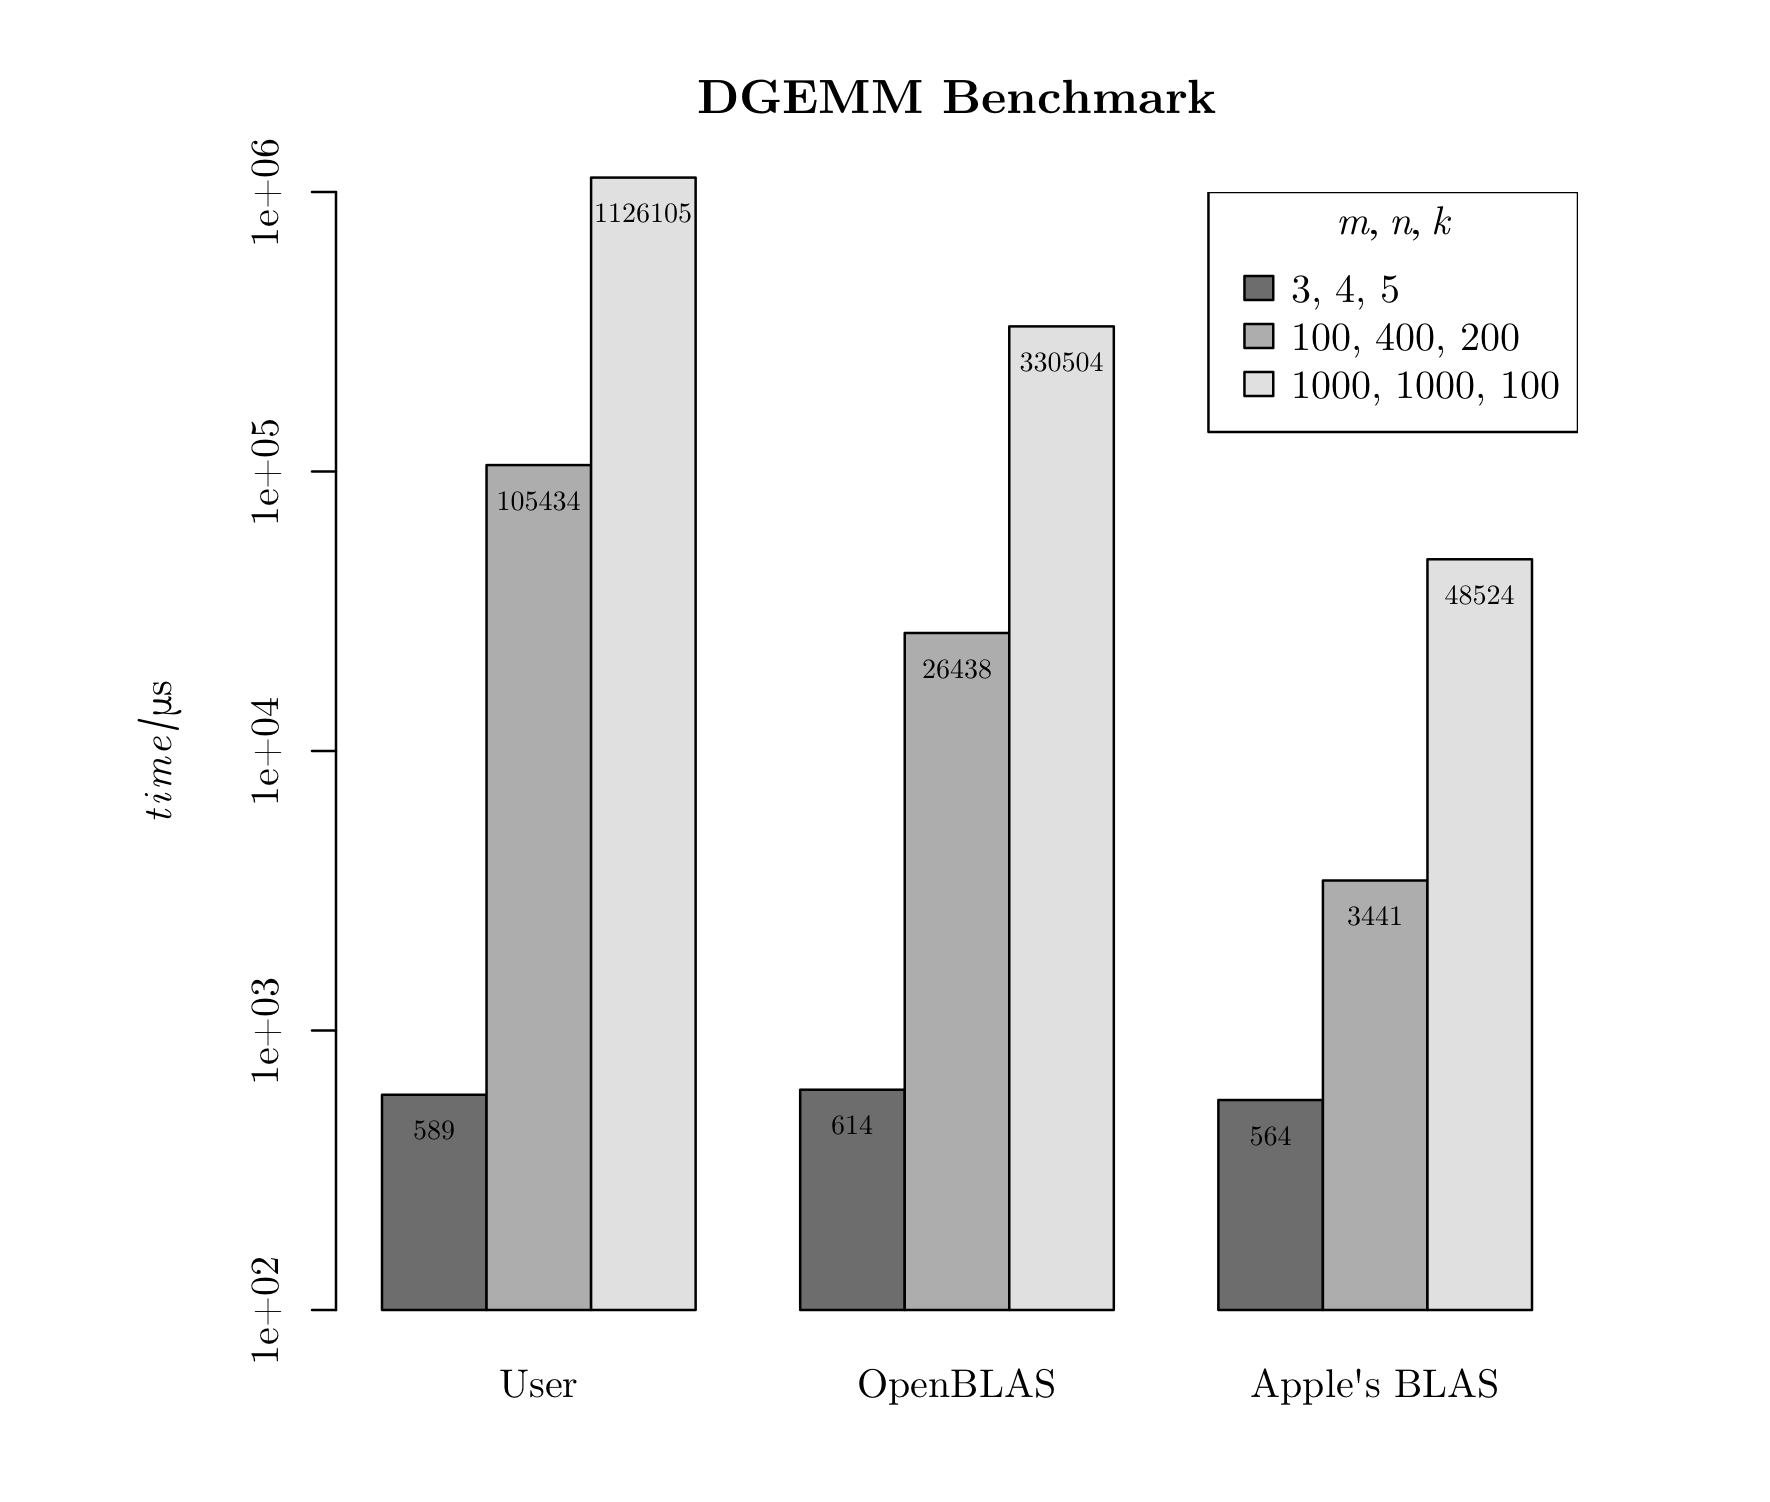
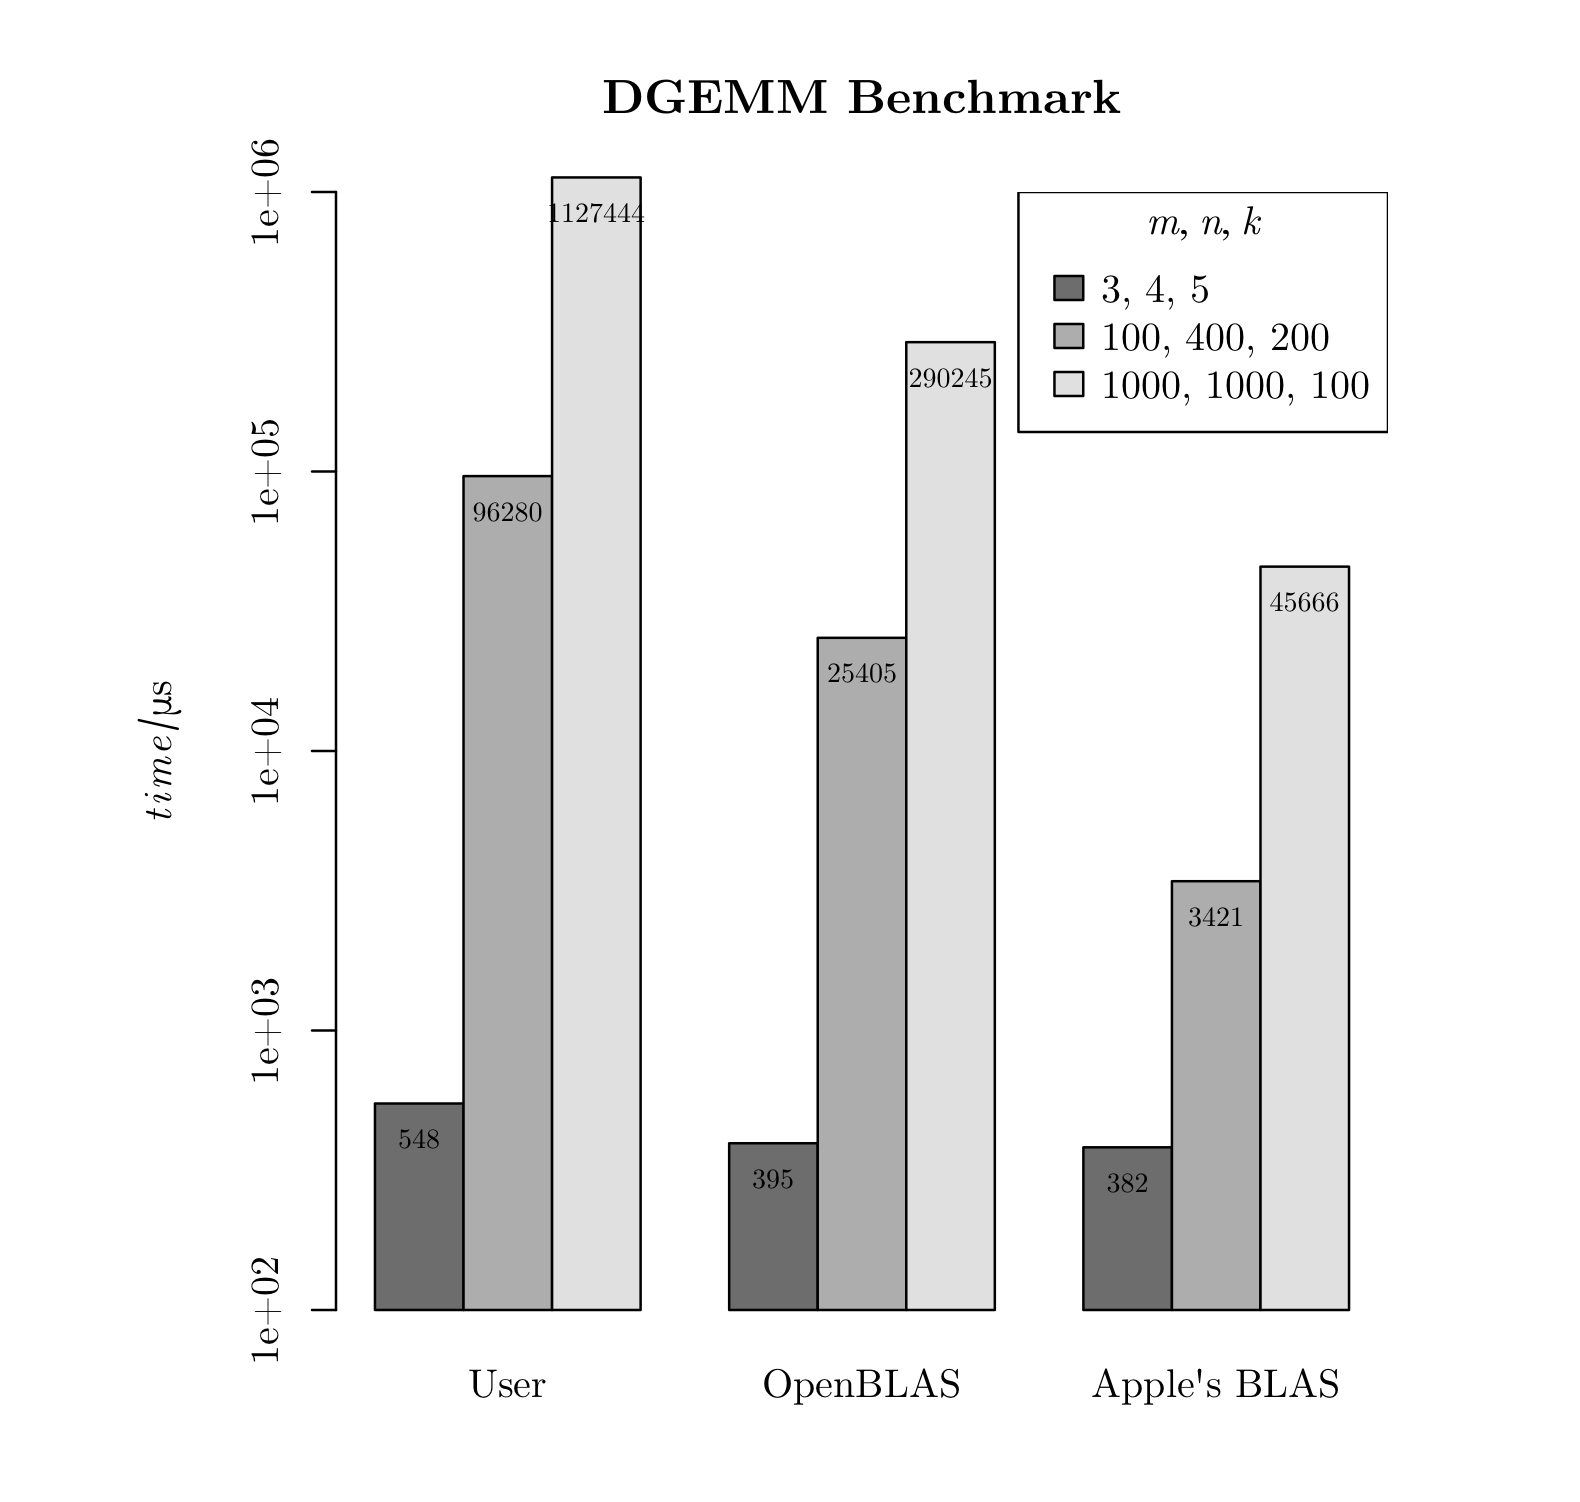
lab_4

diff --git a/lab_4/multi-gemm/src/main.c b/lab_4/multi-gemm/src/main.c
@@ -9,8 +9,8 @@
 #endif
 
 #define WARM_UP 11
-#define N 45
-#define MAX_TRDS 128
+#define N 30
+#define CHUNK_SIZE 9000
 
 struct timeval;
 struct timezone;
@@ -47,20 +47,29 @@ void dgemm(Matrix *m1, Matrix *m2, Matrix *m3)
 
 typedef struct
 {
-    double *mat1, *mat2;
-    int ii, jj, kk, m2;
-    double *ret;
-} dgemm_dot_prod_args;
+    int s, e;
+} dgemm_partial_args;
 
-void dgemm_dot_prod(dgemm_dot_prod_args *args)
+Matrix *g_m1, *g_m2, *g_m3;
+
+void dgemm_partial(dgemm_partial_args *args)
 {
 #ifdef DBG
-    printf("\n[ARGS] ii: %d, jj: %d, kk: %d, m2: %d\n", args->ii, args->jj, args->kk, args->m2);
+    printf("\n[ARGS] s: %d, e: %d\n", args->s, args->e);
 #endif
 
-    for (int k = 0; k < args->kk; ++k)
+    int cur = args->s, k = g_m1->col, cc = g_m3->col;
+
+    while (cur < args->e)
     {
-        *(args->ret) += args->mat1[args->ii * args->kk + k] * args->mat2[k * args->m2 + args->jj];
+        int r = cur / g_m3->col, c = cur % g_m3->col;
+        int cur1 = r * k, cur2 = c;
+        for (int kk = 0; kk < k; ++kk)
+        {
+            g_m3->val[cur] += g_m1->val[cur1] * g_m2->val[cur2];
+            ++cur1, cur2 += cc;
+        }
+        ++cur;
     }
 
     free(args);
@@ -68,31 +77,26 @@ void dgemm_dot_prod(dgemm_dot_prod_args *args)
 
 void dgemm_multi(Matrix *m1, Matrix *m2, Matrix *m3)
 {
-    int m = m1->row, n = m2->col, k = m1->col, cnt = 0;
+    g_m1 = m1, g_m2 = m2, g_m3 = m3;
+    int size3 = m3->row * m3->col;
 
-    pthread_t thrds[m * n];
+    int thrd_size = size3 / CHUNK_SIZE + (size3 % CHUNK_SIZE ? 1 : 0);
+    pthread_t thrds[thrd_size];
 
-    for (int i = 0; i < m; ++i)
+    for (int i = 0, cnt = 0; i < size3; i += CHUNK_SIZE, ++cnt)
     {
-        for (int j = 0; j < n; ++j)
+        int j = i + CHUNK_SIZE;
+        if (j > size3)
         {
-            dgemm_dot_prod_args *args = (dgemm_dot_prod_args *)malloc(sizeof(dgemm_dot_prod_args));
-            *args = (dgemm_dot_prod_args){m1->val, m2->val, i, j, k, n, &(m3->val[i * n + j])};
-            pthread_create(&thrds[cnt], NULL, (void *)dgemm_dot_prod, args);
-
-            ++cnt;
-            if (cnt >= MAX_TRDS)
-            {
-                for (int i = 0; i < cnt; ++i)
-                {
-                    pthread_join(thrds[i], NULL);
-                }
-                cnt = 0;
-            }
+            j = size3;
         }
+
+        dgemm_partial_args *args = (dgemm_partial_args *)malloc(sizeof(dgemm_partial_args));
+        *args = (dgemm_partial_args){i, j};
+        pthread_create(&thrds[cnt], NULL, (void *)dgemm_partial, args);
     }
 
-    for (int i = 0; i < cnt; ++i)
+    for (int i = 0; i < thrd_size; ++i)
     {
         pthread_join(thrds[i], NULL);
     }

diff --git a/lab_4/multi-http-server/src/socket_server_demo.c b/lab_4/multi-http-server/src/socket_server_demo.c
@@ -1,0 +1,67 @@
+#include <sys/socket.h>
+#include <sys/un.h>
+#include <arpa/inet.h>
+#include <unistd.h>
+#include <string.h>
+#include <stdio.h>
+#include <errno.h>
+#include <stdlib.h>
+#include <pthread.h>
+
+#define PORT 11451 // 服务器监听端口
+
+void send_handle(int client_socket)
+{
+    char data[] = "HTTP/1.1 200 OK\nContent-Length: 13\nContent-Type: text/html; charset=utf-8\n\nHello World!";
+
+    printf("enter sleeping...\n");
+    sleep(3); // 让进程进入睡眠状态，单位是秒。
+    printf("finish sleeping...\n");
+
+    if (write(client_socket, data, sizeof(data)) != sizeof(data))
+    {
+        printf("[ERROR] while sending data\n");
+    }
+}
+
+int main()
+{
+    int server_socket = socket(AF_INET, SOCK_STREAM, 0); // 初始化套接字
+    struct sockaddr_in server_addr;
+
+    memset(&server_addr, 0, sizeof(server_addr));
+    server_addr.sin_family = AF_INET; // 服务地址和端口配置
+    server_addr.sin_addr.s_addr = htonl(INADDR_ANY);
+    server_addr.sin_port = htons(PORT);
+
+    bind(server_socket, (struct sockaddr *)&server_addr, sizeof(server_addr)); // 将本地地址绑定到所创建的套接字上
+
+    listen(server_socket, 20); // 开始监听是否有客户端连接，第二个参数是最大监听数
+
+    char buf[1024];
+    int client_socket;
+
+    while (1)
+    {
+        printf("[INFO] http://localhost:%d\n\n", PORT);
+        printf("===== multiple threads waiting for client's request =====\n");
+        if ((client_socket = accept(server_socket, (struct sockaddr *)NULL, NULL)) == -1) // 等待客户端（浏览器）连接
+        {
+            printf("accept socket error :%s(errno:%d)\n", strerror(errno), errno);
+            continue;
+        }
+        printf("===== waiting for client %d read request data =====\n", client_socket);
+        read(client_socket, buf, 1024); // 读取客户端内容，这里是HTTP的请求数据
+        struct sockaddr_in client_addr;
+        char ip_addr[INET_ADDRSTRLEN];
+        socklen_t client_addr_len = sizeof(client_addr);
+        getpeername(client_socket, (struct sockaddr *)&client_addr, &client_addr_len);
+        printf("client address: %s:%d\n", inet_ntop(AF_INET, &client_addr.sin_addr, ip_addr, sizeof(ip_addr)), ntohs(client_addr.sin_port));
+        pthread_t thrd;
+        pthread_create(&thrd, NULL, (void *)send_handle, client_socket);
+        pthread_detach(thrd);
+    }
+
+    close(server_socket);
+    return 0;
+}

diff --git a/lab_4/multi-gemm/gen_test_case.py b/lab_4/multi-gemm/gen_test_case.py
@@ -2,9 +2,9 @@ import numpy as np
 
 print(3)
 
-a = 3
+a = 10
 b = 4
-c = 5
+c = 8
 
 print(a)
 print(b)
@@ -22,9 +22,9 @@ arr = np.random.default_rng().uniform(low=0.0, high=100.0, size=b*c)
 for num in arr:
     print(np.around(num, 6))
 
-a = 10
-b = 20
-c = 40
+a = 100
+b = 200
+c = 400
 
 print(a)
 print(b)
@@ -42,9 +42,9 @@ arr = np.random.default_rng().uniform(low=0.0, high=500.0, size=b*c)
 for num in arr:
     print(np.around(num, 6))
 
-a = 30
-b = 10
-c = 30
+a = 600
+b = 60
+c = 600
 
 print(a)
 print(b)

diff --git a/lab_2/README.md b/lab_2/README.md
@@ -16,38 +16,38 @@ A possible output (us is a shorthand of microsecond):
 ```
 [PROGRAM ./target/bin_ablas START]
 
-[DURATION] 564 us
+[DURATION] 382 us
 
-[DURATION] 3441 us
+[DURATION] 3421 us
 
-[DURATION] 48524 us
+[DURATION] 45666 us
 
-real    0m0.127s
-user    0m0.121s
+real    0m0.160s
+user    0m0.112s
 sys     0m0.004s
 
 [PROGRAM ./target/bin_oblas START]
 
-[DURATION] 614 us
+[DURATION] 395 us
 
-[DURATION] 26438 us
+[DURATION] 25405 us
 
-[DURATION] 330504 us
+[DURATION] 290245 us
 
-real    0m0.510s
-user    0m2.576s
-sys     0m0.040s
+real    0m0.544s
+user    0m2.728s
+sys     0m0.032s
 
 [PROGRAM ./target/bin_user START]
 
-[DURATION] 589 us
+[DURATION] 548 us
 
-[DURATION] 105434 us
+[DURATION] 96280 us
 
-[DURATION] 1126105 us
+[DURATION] 1127444 us
 
-real    0m1.611s
-user    0m1.600s
+real    0m1.640s
+user    0m1.580s
 sys     0m0.008s
 ```
 

diff --git a/README.md b/README.md
@@ -19,6 +19,6 @@
 
 ## Lab 4
 
-- All: WIP
+- All: Finished
     - Multi-thread GEMM: Finished
-    - Multi-thread server: **Pending**
+    - Multi-thread server: Finished
